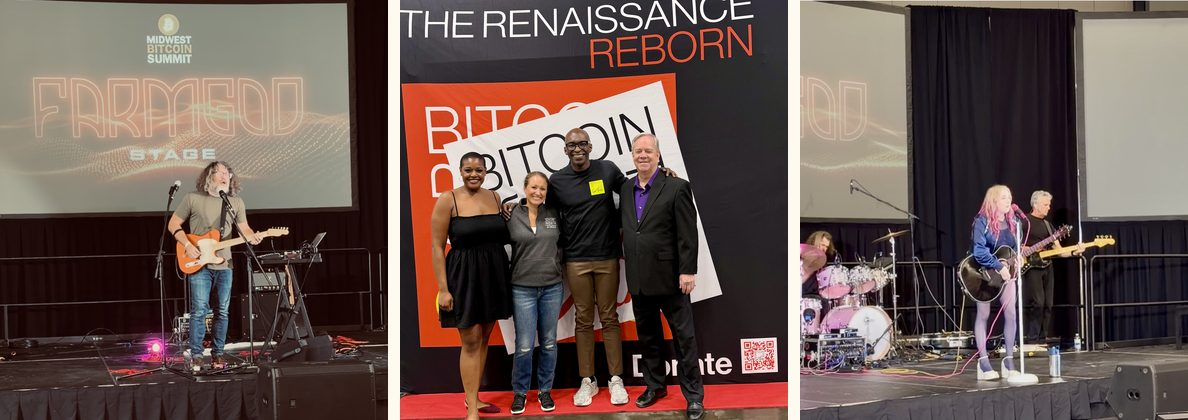
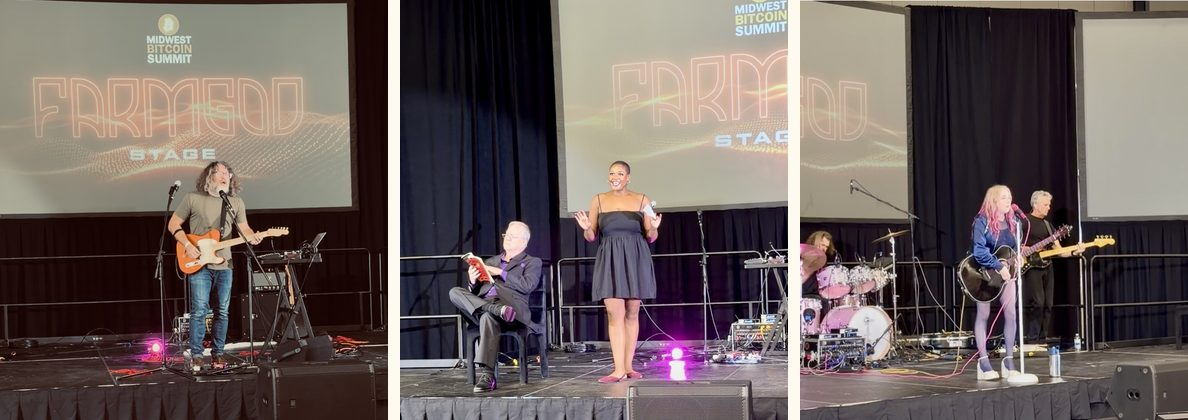
Fix Short North placement in Issue #27 collages
Expo Stage uses short-north-mbs.jpg. Artists in the Park uses
short-north-stage-bfta (BFTA logo booth photo).

Changed region(s): [[0.3114, 0.0, 0.6852, 1.0]]

diff --git a/docs/newsletter/issue-27-september-29-2026.html b/docs/newsletter/issue-27-september-29-2026.html
@@ -64,8 +64,8 @@
 
   Collage plan (keeps the email short):
   1) hero-booth.jpg         full booth wide shot
-  2) collage-stage.jpg      Andy + Short North (BFTA logo booth) + Ainsley band (3-up)
-  3) collage-artists.jpg    Dion/Nadia/Ainsley + singing + Sean + Short North mbs (2x2)
+  2) collage-stage.jpg      Andy + short-north-mbs.jpg + Ainsley band (3-up)
+  3) collage-artists.jpg    Dion/Nadia/Ainsley + singing + Sean + short-north-stage-bfta (2x2)
   4) board-advisors.jpg     from bfta-board-advisors-mbs.heic (not bfta-advisors-mbs.jpg)
 
   INTERNAL
@@ -235,9 +235,9 @@
   <!-- STAGE COLLAGE -->
   <tr>
     <td style="background-color:#FFFAF0; padding:24px 32px 8px 32px;">
-      <img src="https://www.bitcoinforthearts.org/newsletter/issue-27/collage-stage.jpg" alt="Rock n Roll Andy Breakheart and Short North Stage at Bitcoin Arts Park" width="536" style="display:block; width:100%; max-width:536px; height:auto; border:0; outline:none; text-decoration:none; margin:0 0 8px 0;">
+      <img src="https://www.bitcoinforthearts.org/newsletter/issue-27/collage-stage.jpg" alt="Rock n Roll Andy Breakheart, Short North Stage, and Ainsley Costello on stage at Midwest" width="536" style="display:block; width:100%; max-width:536px; height:auto; border:0; outline:none; text-decoration:none; margin:0 0 8px 0;">
       <p style="margin:0; font-family:'Helvetica Neue', Helvetica, Arial, sans-serif; font-size:12px; line-height:1.4; color:#000000;">
-        Expo Stage · Andy Breakheart · Short North Stage
+        Expo Stage · Andy Breakheart · Short North Stage · Ainsley Costello
       </p>
     </td>
   </tr>
@@ -295,7 +295,7 @@
       <img src="https://www.bitcoinforthearts.org/newsletter/issue-27/collage-artists.jpg" alt="Artists and moments from Bitcoin Arts Park at Midwest" width="536" style="display:block; width:100%; max-width:536px; height:auto; border:0; outline:none; text-decoration:none; margin:0 0 16px 0;">
       <img src="https://www.bitcoinforthearts.org/newsletter/issue-27/board-advisors.jpg" alt="Bitcoin for the Arts board and advisors at Midwest Bitcoin Summit" width="536" style="display:block; width:100%; max-width:536px; height:auto; border:0; outline:none; text-decoration:none; margin:0 0 8px 0;">
       <p style="margin:0; font-family:'Helvetica Neue', Helvetica, Arial, sans-serif; font-size:12px; line-height:1.4; color:#000000;">
-        Artists in the Park · Board and advisors on site
+        Artists in the Park · Short North at the BFTA booth · Board and advisors on site
       </p>
     </td>
   </tr>

diff --git a/docs/newsletter/build-issue-27-collages.py b/docs/newsletter/build-issue-27-collages.py
@@ -37,7 +37,7 @@ SOURCES = {
     ],
     "dion_nadia_ainsley": ["dion-nadia-ainsley-mbs.JPG", "dion-nadia-ainsley-mbs.jpg"],
     "andy": ["rock-n-roll-andy-breakheart-mbs.jpg", "rock-n-roll-andy-breakheart-mbs.JPG"],
-    # Short North with BFTA logo at the booth (not short-north-mbs.jpg)
+    # Short North with BFTA logo at the booth → Artists in the Park collage
     "short_north_stage": [
         "short-north-stage-bfta.heic",
         "short-north-stage-bfta.HEIC",
@@ -130,8 +130,8 @@ def main() -> int:
             hero = cover(hero, hero.width, max_h)
         save_jpg(hero, OUT / "hero-booth.jpg", quality=84)
 
-    # 2) Stage collage: Andy + Short North (BFTA logo booth) + Ainsley band
-    stage_keys = [k for k in ("andy", "short_north_stage", "ainsley_band") if k in found]
+    # 2) Stage collage: Andy + Short North (short-north-mbs.jpg) + Ainsley band
+    stage_keys = [k for k in ("andy", "short_north_mbs", "ainsley_band") if k in found]
     if len(stage_keys) >= 2:
         imgs = [open_rgb(found[k]) for k in stage_keys]
         cols = 3 if len(imgs) >= 3 else 2
@@ -142,11 +142,11 @@ def main() -> int:
         im = cover(open_rgb(found[stage_keys[0]]), EMAIL_W, 640)
         save_jpg(im, OUT / "collage-stage.jpg")
 
-    # 3) Artists collage: Dion/Nadia/Ainsley + singing + Sean + Short North (mbs)
+    # 3) Artists collage: Dion/Nadia/Ainsley + singing + Sean + Short North BFTA booth
     #    No Andy here — he is on the Expo Stage collage.
     artist_keys = [
         k
-        for k in ("dion_nadia_ainsley", "ainsley_nadia", "sean", "short_north_mbs")
+        for k in ("dion_nadia_ainsley", "ainsley_nadia", "sean", "short_north_stage")
         if k in found
     ]
     if len(artist_keys) >= 2:
